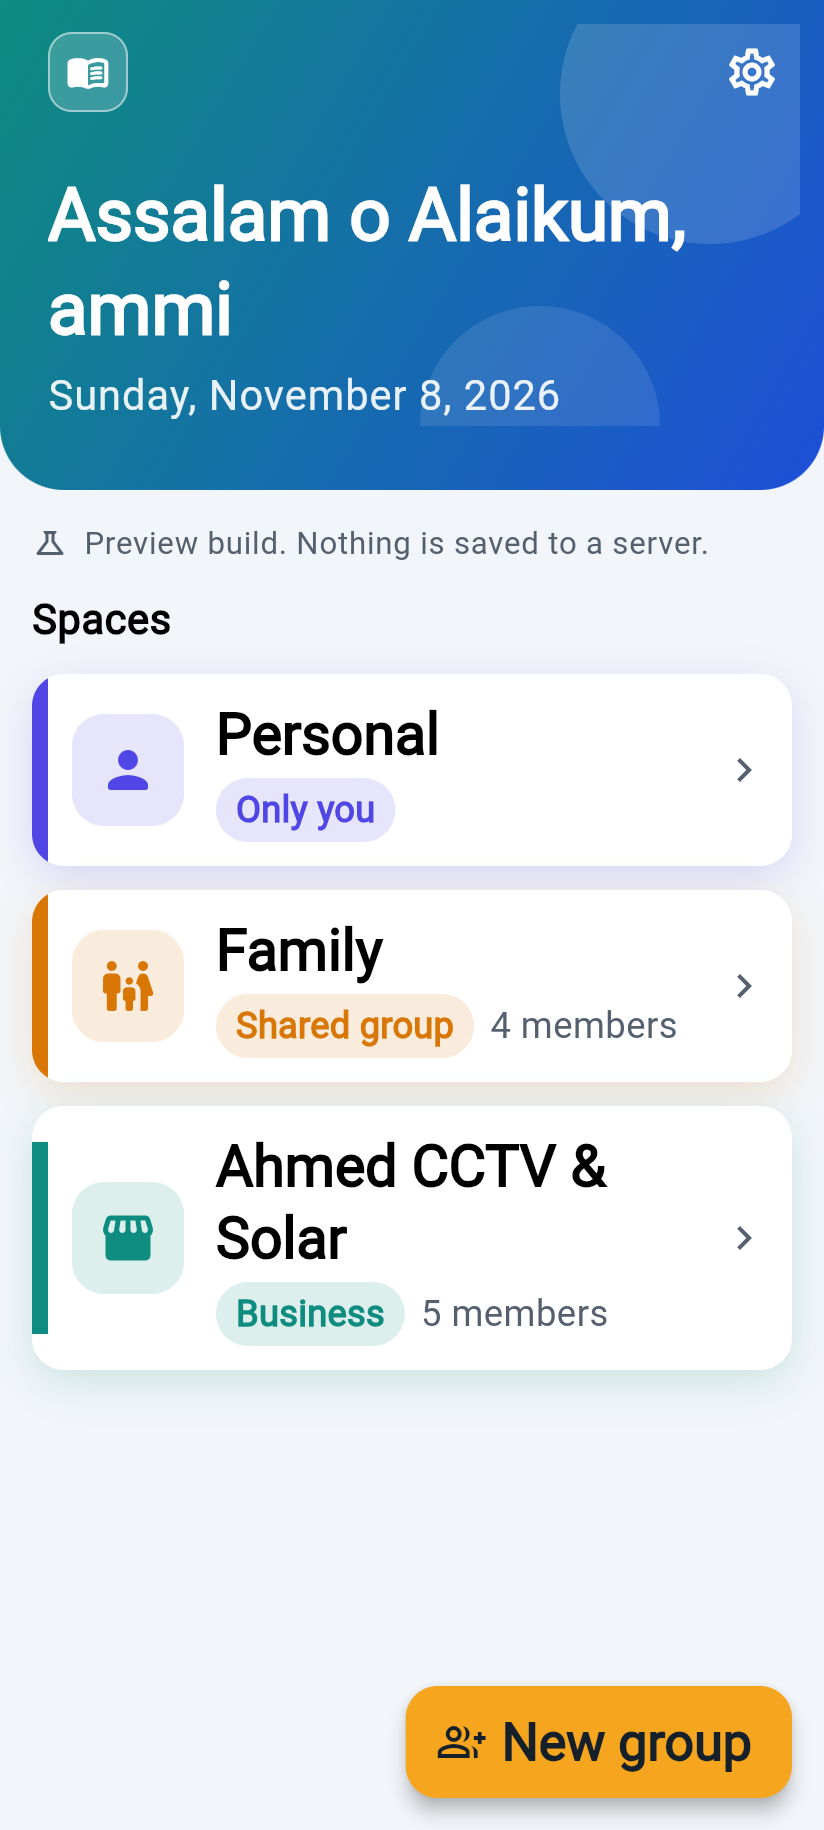
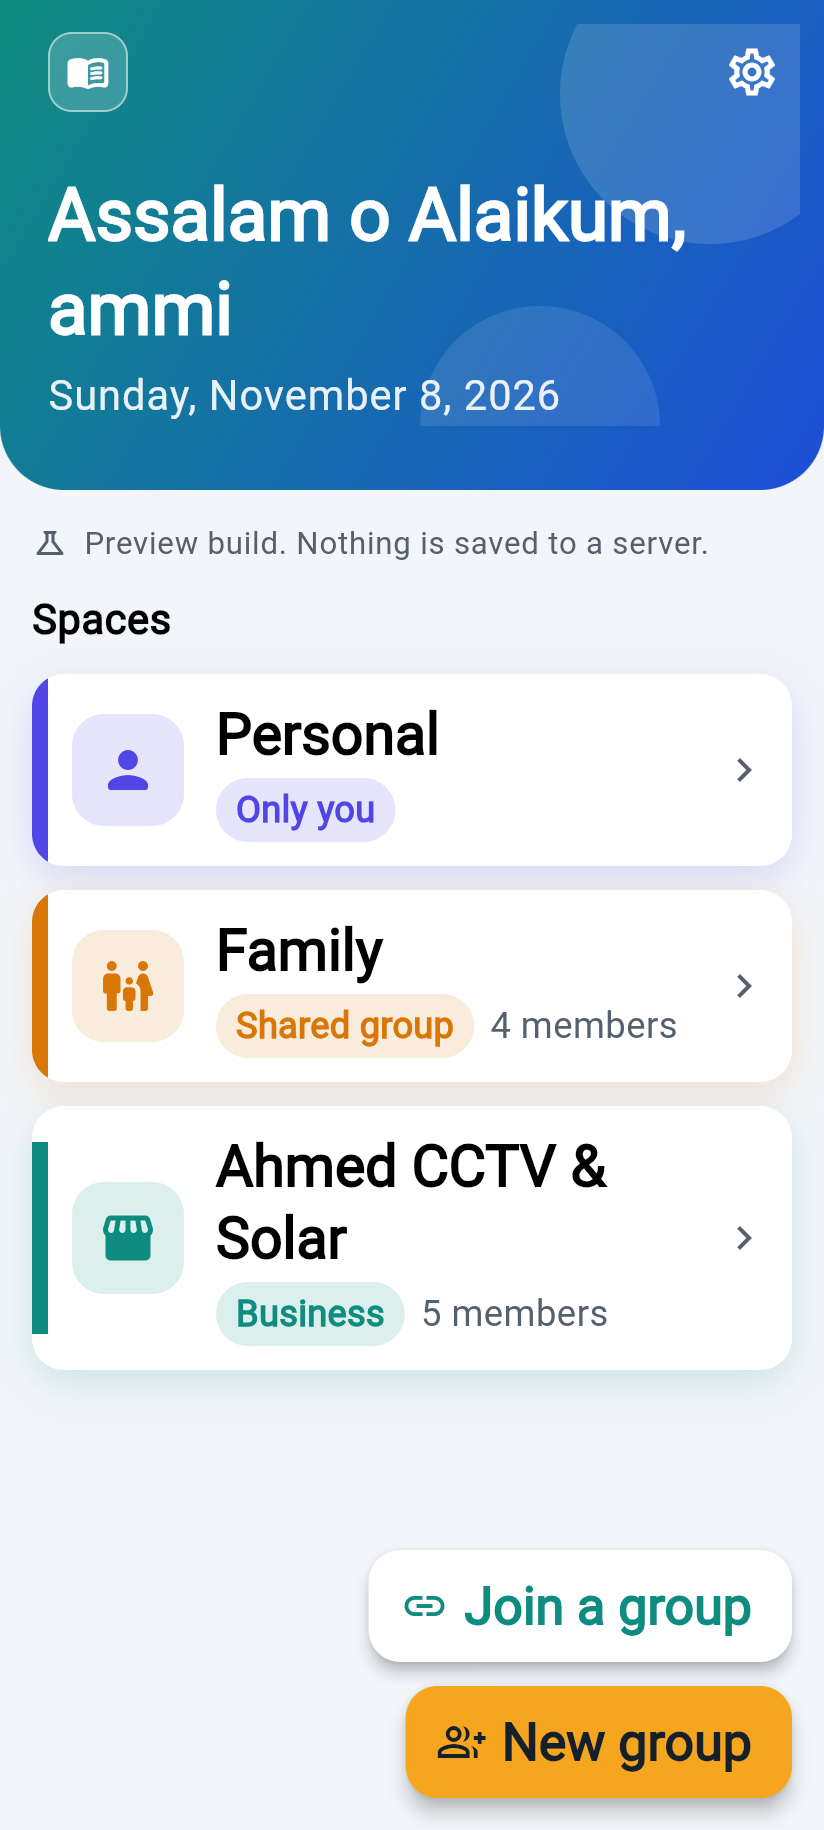
Add phase 2 screenshots
Claude-Session: https://claude.ai/code/session_01GpoMgs9LZSrH9dCQfdFMAN

Changed region(s): [[0.4551, 0.8721, 0.9405, 0.9344]]

diff --git a/app/tool_screenshots.js b/app/tool_screenshots.js
@@ -42,6 +42,17 @@ async function tapText(page, text) {
   }
   throw new Error('not found: ' + text);
 }
+
+async function hasText(page, t) {
+  return page.evaluate((t) => [...document.querySelectorAll('flt-semantics')].some(e => (e.textContent || '').includes(t)), t);
+}
+async function backUntil(page, t) {
+  for (let i = 0; i < 6; i++) {
+    if (await hasText(page, t)) return;
+    await page.goBack();
+    await page.waitForTimeout(900);
+  }
+}
 async function typeInto(page, label, value) {
   await tapText(page, label);
   await page.keyboard.type(value, { delay: 20 });
@@ -104,25 +115,35 @@ async function typeInto(page, label, value) {
   await tapText(page, 'Yes');
   await page.waitForTimeout(1200);
   await shot(page, '15-party');
-  await tapText(page, 'Gave');
-  await page.waitForTimeout(600);
-  // The first "Gave" is the big button; go back and tap an entry row instead.
-  await page.goBack();
-  await page.waitForTimeout(800);
   await tapText(page, 'motorbike');
   await page.waitForTimeout(800);
   await shot(page, '16-entry-detail');
-  await page.goBack(); await page.waitForTimeout(500);
-  await page.goBack(); await page.waitForTimeout(500);
-  await page.goBack(); await page.waitForTimeout(800);
-  await tapText(page, 'Settings');
-  await tapText(page, 'Big and Simple mode');
-  await tapText(page, 'اردو');
-  await page.goBack();
-  await page.waitForTimeout(800);
-  await tapText(page, 'ذاتی');
+  await backUntil(page, 'Ahmed CCTV');
+  await tapText(page, 'Family');
   await page.waitForTimeout(1200);
-  await shot(page, '17-ledger-home-urdu');
+  await shot(page, '21-family-home');
+  await tapText(page, 'Members');
+  await page.waitForTimeout(1000);
+  await shot(page, '22-members');
+  await tapText(page, 'Invite someone');
+  await page.waitForTimeout(800);
+  await shot(page, '23-invite-role');
+  await tapText(page, 'Invite');
+  await page.waitForTimeout(800);
+  await shot(page, '24-invite-link');
+  await page.keyboard.press('Escape'); await page.waitForTimeout(500);
+  await backUntil(page, 'Who recorded what');
+  await page.evaluate(() => { const els=[...document.querySelectorAll('flt-semantics[role="button"]')].filter(e=>(e.getAttribute('aria-label')||'').includes('Activity')); const r=els[0]?.getBoundingClientRect(); if(r){ window.__act={x:r.x+r.width/2,y:r.y+r.height/2}; } });
+  const act = await page.evaluate(() => window.__act);
+  if (act) { await page.mouse.click(act.x, act.y); await page.waitForTimeout(1000); await shot(page, '25-activity'); await page.goBack(); await page.waitForTimeout(600); }
+  await backUntil(page, 'Ahmed CCTV');
+  await tapText(page, 'Join a group');
+  await page.waitForTimeout(800);
+  await tapText(page, 'Invite link or code');
+  await page.keyboard.type('https://duebook.sparkingasia.com/join/a1b2c3d4e5f60718293a4b5c6d7e8f90a1b2c3d4e5f60718293a4b5c6d7e8f90');
+  await tapText(page, 'Check invite');
+  await page.waitForTimeout(1000);
+  await shot(page, '26-join');
 
   await browser.close();
 })().catch(e => { console.error(e); process.exit(1); });

diff --git a/docs/screenshots/current/README.md b/docs/screenshots/current/README.md
@@ -16,3 +16,7 @@ Taken from the web preview build at phone size (412 by 915, 2x). Preview mode us
 | 16 | Entry detail with edit and cancel |
 
 To retake: `flutter build web --release --no-tree-shake-icons --pwa-strategy=none`, serve `build/web` on port 8099, then `node app/tool_screenshots.js <out_dir> http://localhost:8099/ app/build/web/canvaskit`.
+| 21 | Family group home with the who recorded what strip |
+| 22 | Members and settings: invite, roles, month lock, leave |
+| 23, 24 | Invite: choose a role, then the single use link to share |
+| 26 | Join a group from a pasted link, with the preview before joining |
